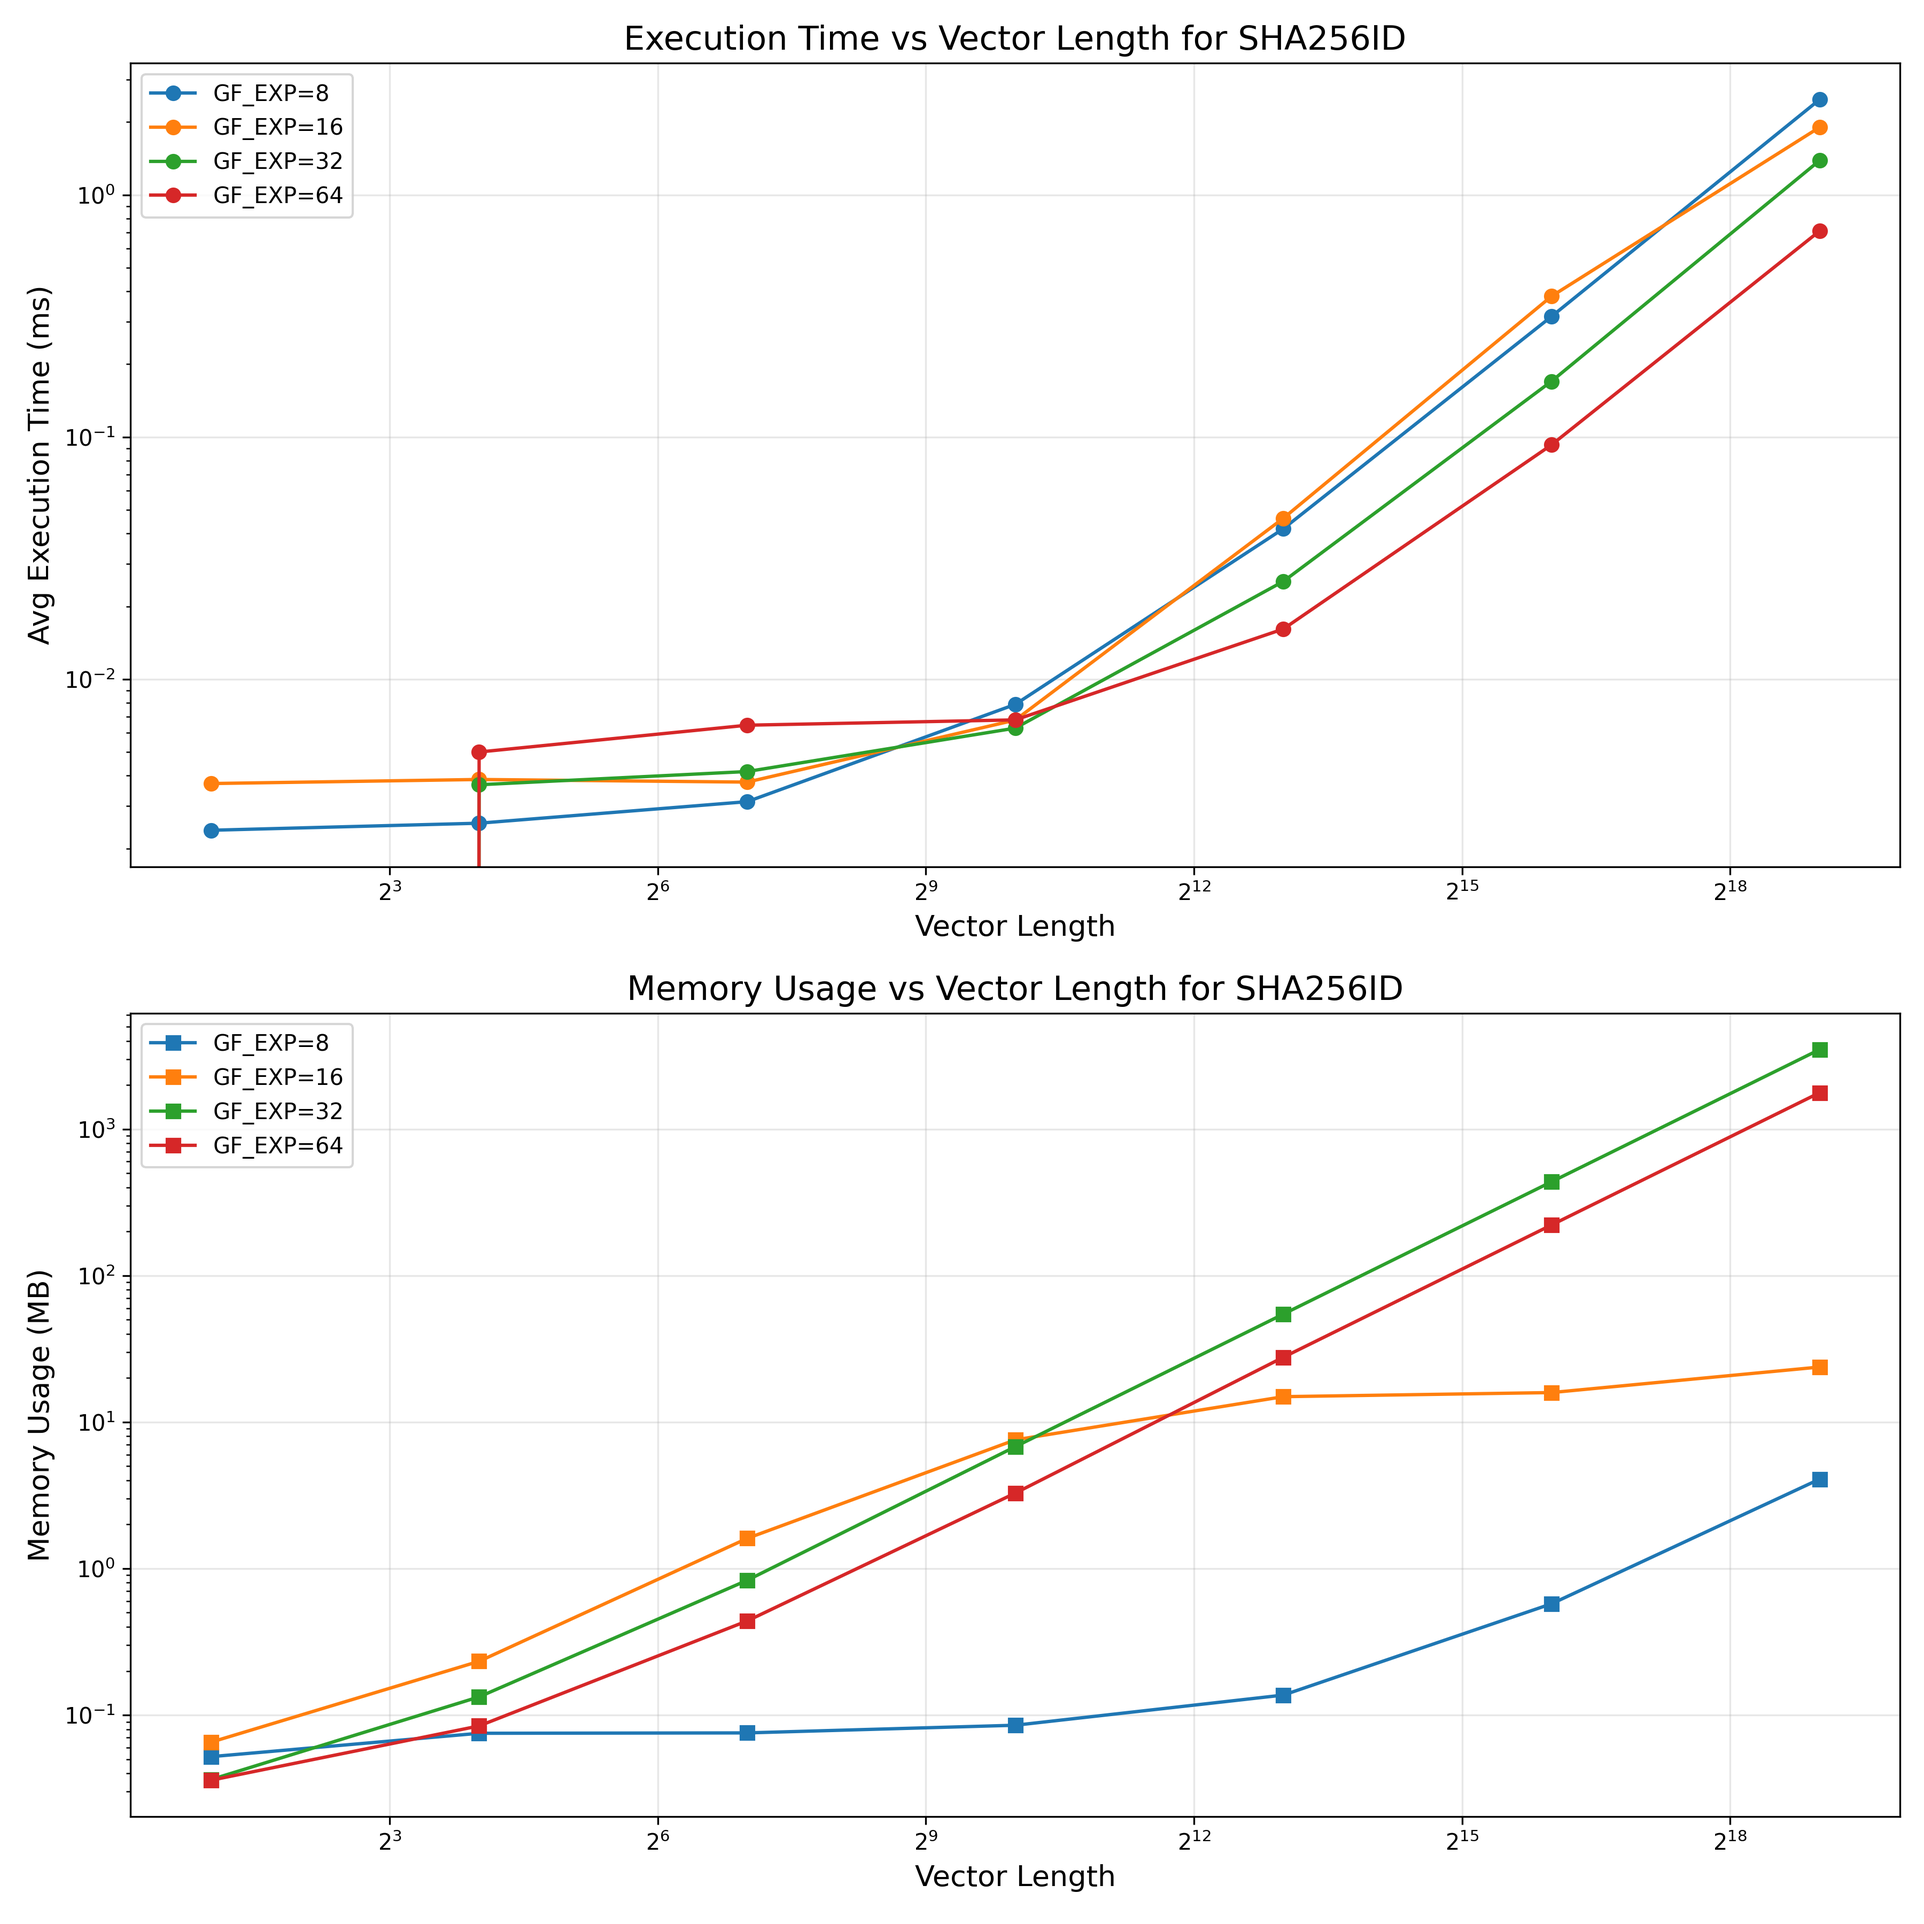
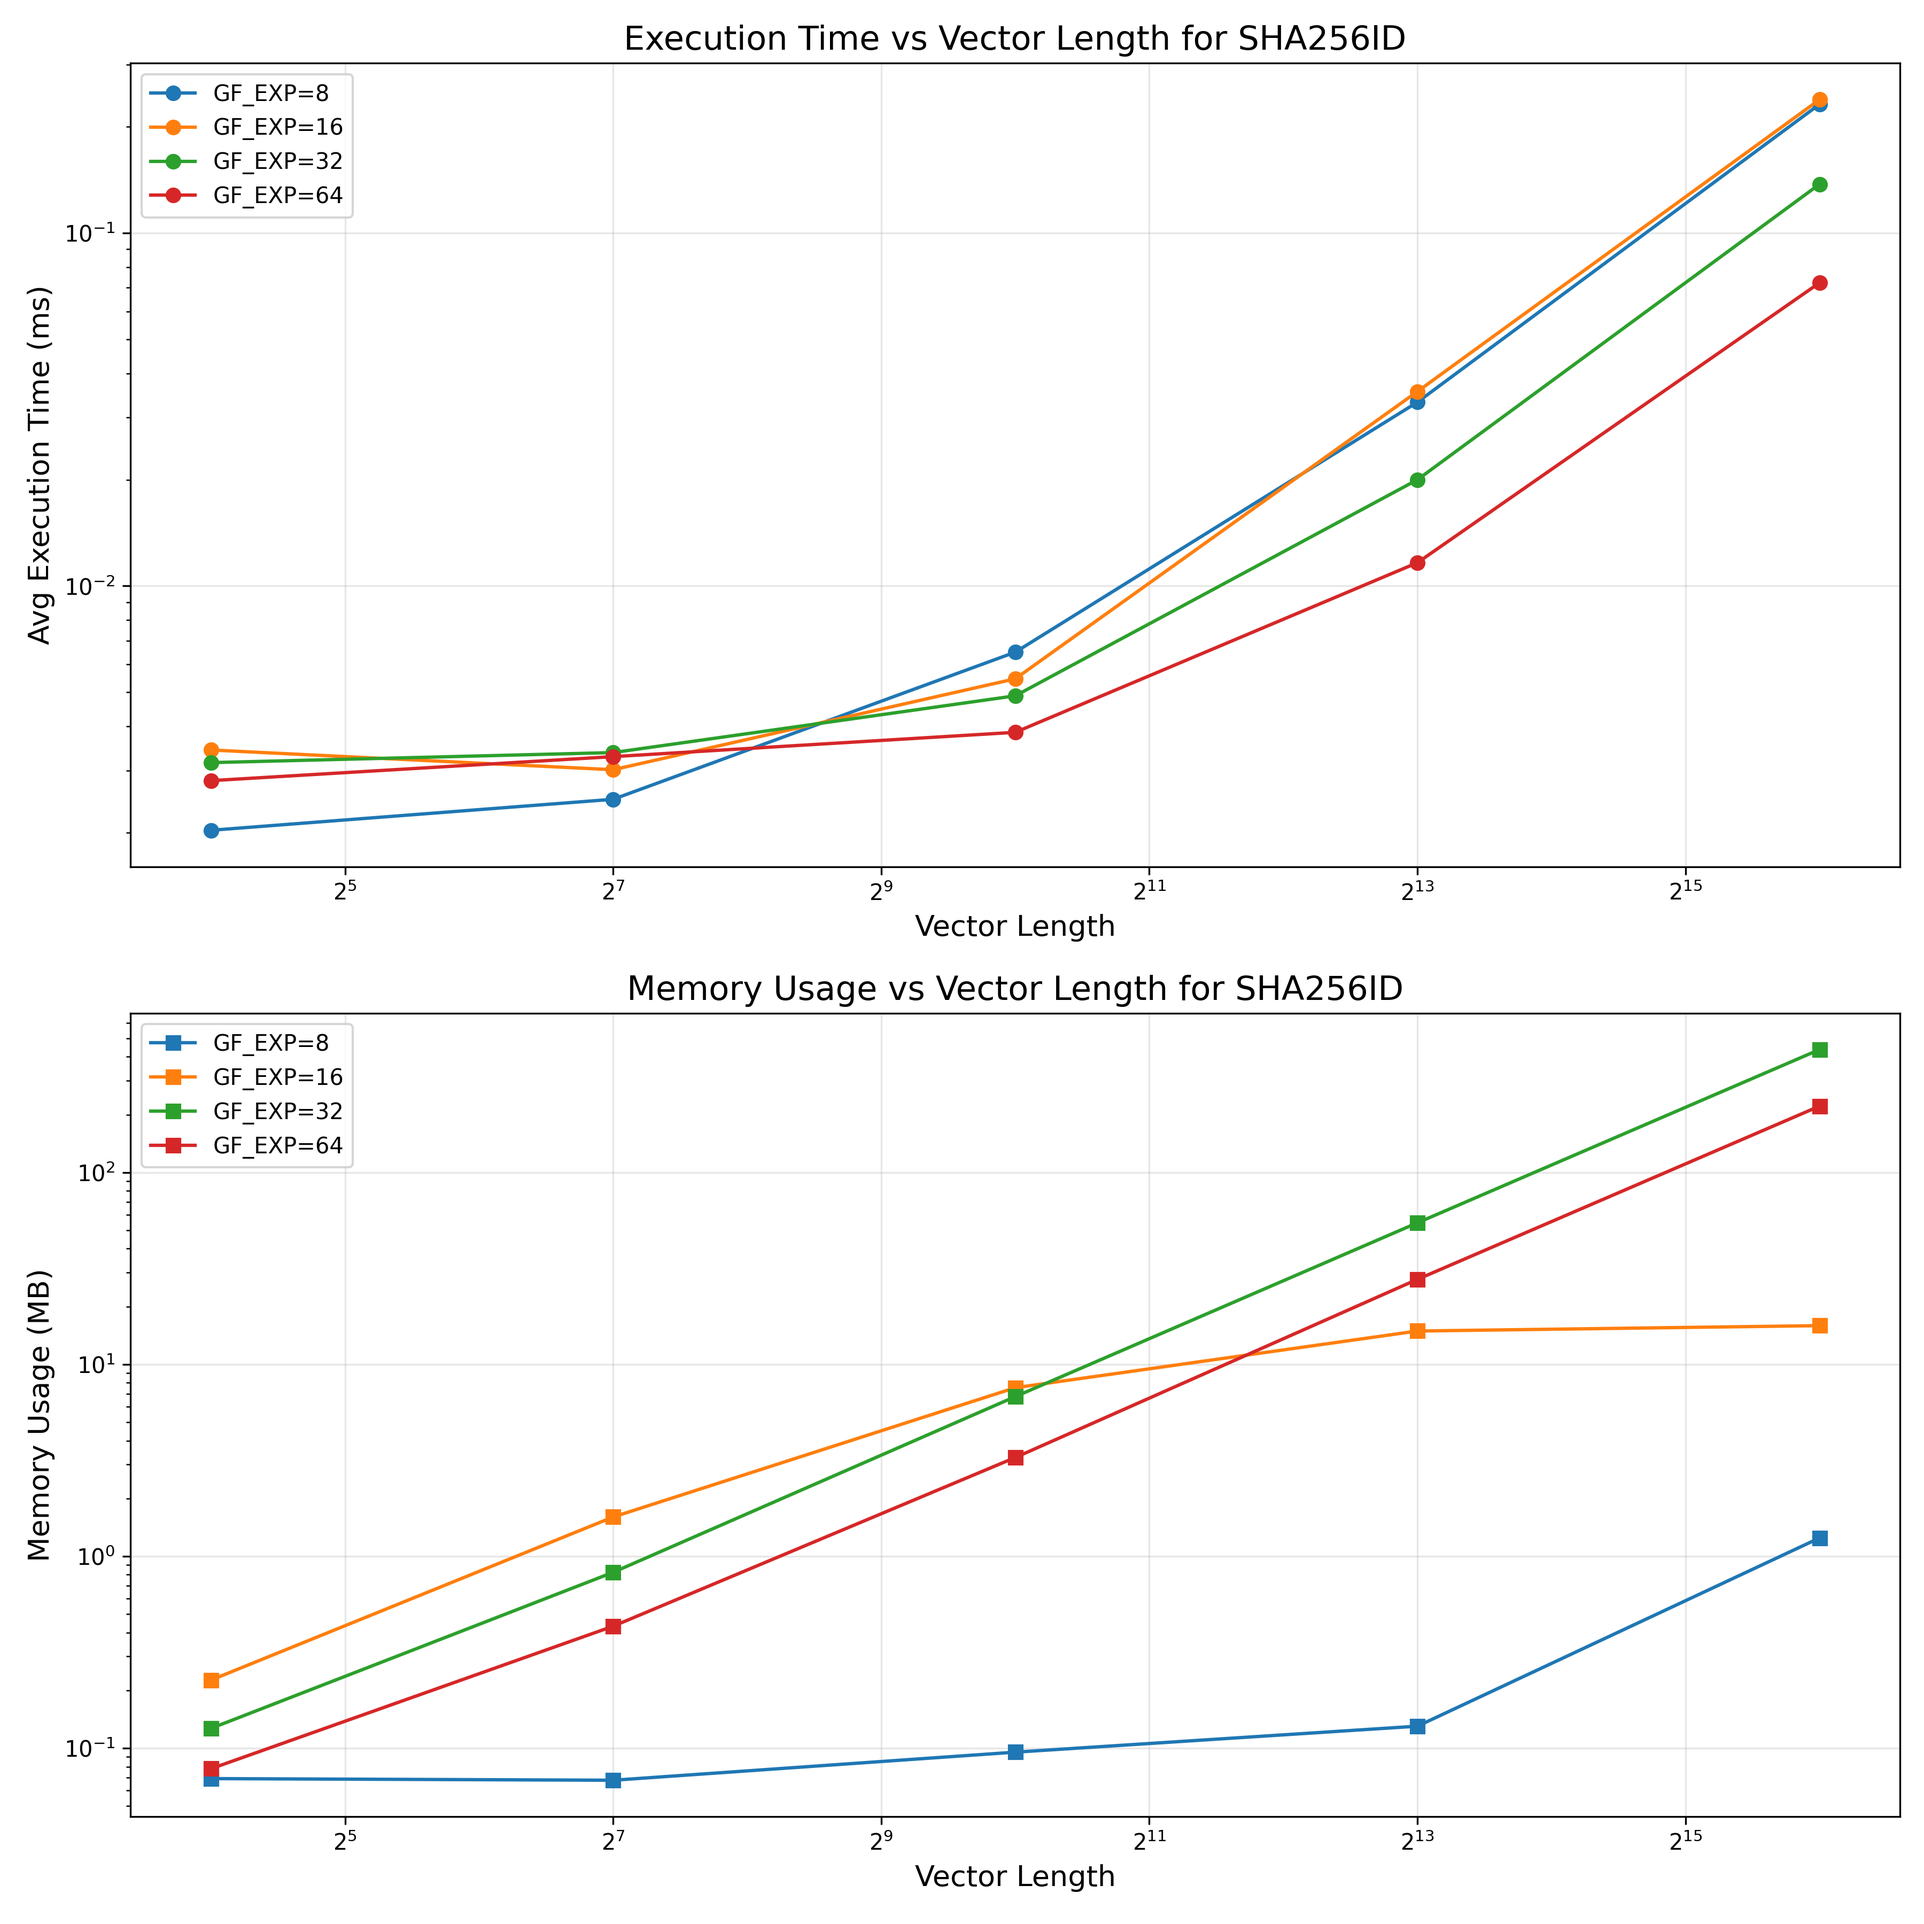
update: new results with fixed library

diff --git a/analyses/framework_performance/multi_parameter.py b/analyses/framework_performance/multi_parameter.py
@@ -7,14 +7,11 @@ import matplotlib.pyplot as plt
 import numpy as np
 import os
 import gc
+import sys
+sys.path.append(os.path.dirname(os.path.dirname(os.path.dirname(os.path.abspath(__file__)))))
 from framework import IdMetrics, create_id_system
 import time
 import tracemalloc
-
-def clear_memory():
-    """Force garbage collection and clear memory."""
-    gc.collect()
-    time.sleep(0.1)
 
 def main():
     print("=" * 60)
@@ -22,12 +19,12 @@ def main():
     print("=" * 60)
 
     # Parameters
-    vec_lengths = [2**i for i in range(1, 21, 3)]
+    vec_lengths = [2**i for i in range(4, 17, 3)]
     gf_exp_values = [8, 16, 32, 64]
     system_types = [
-        ("RSID", lambda gf_exp: lambda vec_len: create_id_system("RSID", {"gf_exp": gf_exp, "tag_pos": [2]})),
-        ("RMID", lambda gf_exp: lambda vec_len: create_id_system("RMID", {"gf_exp": gf_exp, "tag_pos": [2]})),
-        ("RS2ID", lambda gf_exp: lambda vec_len: create_id_system("RS2ID", {"gf_exp": gf_exp, "tag_pos": 2, "tag_pos_in": 2})),
+        ("RSID", lambda gf_exp: lambda vec_len: create_id_system("RSID", {"gf_exp": gf_exp, "tag_pos": [1]})),
+        ("RMID", lambda gf_exp: lambda vec_len: create_id_system("RMID", {"gf_exp": gf_exp, "tag_pos": [1]})),
+        ("RS2ID", lambda gf_exp: lambda vec_len: create_id_system("RS2ID", {"gf_exp": gf_exp, "tag_pos": 1, "tag_pos_in": 1})),
         ("SHA1ID", lambda gf_exp: lambda vec_len: create_id_system("SHA1ID", {"gf_exp": gf_exp})),
         ("SHA256ID", lambda gf_exp: lambda vec_len: create_id_system("SHA256ID", {"gf_exp": gf_exp})),
     ]
@@ -43,6 +40,8 @@ def main():
         for gf_exp in gf_exp_values:
             if system_name == "RS2ID" and gf_exp > 32:
                 continue
+            if system_name == "RMID" and gf_exp > 32:
+                continue
                 
             exec_times = []
             memory_usages = []
@@ -51,7 +50,6 @@ def main():
                 print(f"  gf_exp={gf_exp}, vec_len={vec_len} ...", end="", flush=True)
                 
                 # Clear memory and start tracking
-                clear_memory()
                 tracemalloc.clear_traces()
                 tracemalloc.start()
                 
@@ -104,77 +102,6 @@ def main():
         print(f"Saved plot: analyses/framework_performance/performance_{system_name}.png")
         plt.close()
 
-    # Create summary comparison plot
-    print("\nCreating summary comparison...")
-    create_summary_plots(system_types, vec_lengths, 16, num_messages)
-
-def create_summary_plots(system_types, vec_lengths, comparison_gf_exp, num_messages):
-    """Create summary plots comparing all systems for a specific gf_exp value."""
-    fig, (ax1, ax2) = plt.subplots(2, 1, figsize=(14, 10))
-    
-    for system_name, sys_factory in system_types:
-        if system_name == "RS2ID" and comparison_gf_exp > 32:
-            continue
-            
-        exec_times = []
-        memory_usages = []
-        
-        for vec_len in vec_lengths:
-            print(f"  Summary: {system_name}, vec_len={vec_len} ...", end="", flush=True)
-            
-            # Clear memory and start tracking
-            clear_memory()
-            tracemalloc.clear_traces()
-            tracemalloc.start()
-            
-            # Create system and evaluate
-            system = sys_factory(comparison_gf_exp)(vec_len)
-            metrics = IdMetrics.evaluate_system(
-                system=system,
-                vec_len=vec_len,
-                num_messages=num_messages,
-                num_processes=1,
-            )
-            
-            # Get traced memory
-            _, peak_traced = tracemalloc.get_traced_memory()
-            traced_mb = peak_traced / (1024 * 1024)
-            
-            # Record metrics
-            exec_times.append(metrics["avg_execution_time_ms"])
-            memory_usages.append(traced_mb)
-            
-            print(f" done ({metrics['avg_execution_time_ms']:.3f} ms, {traced_mb:.1f} MB)")
-            
-            # Clean up
-            del system, metrics
-            tracemalloc.stop()
-        
-        # Plot comparison data
-        ax1.plot(vec_lengths, exec_times, marker='o', label=system_name, linewidth=2)
-        ax2.plot(vec_lengths, memory_usages, marker='s', label=system_name, linewidth=2)
-    
-    # Configure plots
-    ax1.set_title(f"Execution Time Comparison (GF_EXP={comparison_gf_exp})", fontsize=15)
-    ax1.set_xlabel("Vector Length", fontsize=13)
-    ax1.set_ylabel("Avg Execution Time (ms)", fontsize=13)
-    ax1.set_xscale("log", base=2)
-    ax1.set_yscale("log")
-    ax1.grid(True, alpha=0.3)
-    ax1.legend()
-    
-    ax2.set_title(f"Memory Usage Comparison (GF_EXP={comparison_gf_exp})", fontsize=15)
-    ax2.set_xlabel("Vector Length", fontsize=13)
-    ax2.set_ylabel("Memory Usage (MB)", fontsize=13)
-    ax2.set_xscale("log", base=2)
-    ax2.set_yscale("log")
-    ax2.grid(True, alpha=0.3)
-    ax2.legend()
-    
-    plt.tight_layout()
-    plt.savefig(f"analyses/framework_performance/system_comparison_gf{comparison_gf_exp}.png", dpi=300)
-    print(f"Saved comparison plot: analyses/framework_performance/system_comparison_gf{comparison_gf_exp}.png")
-    plt.close()
 
 if __name__ == "__main__":
     main()

diff --git a/framework/metrics.py b/framework/metrics.py
@@ -34,7 +34,7 @@ def _worker_generate_and_test(args):
     }
     
     # Sample collided messages (limit to reasonable number)
-    max_collided_samples = min(100, batch_size // 100)
+    max_collided_samples = 100
     collided_msgs_sample = []
     
     # Create a generator for this worker's messages
@@ -522,7 +522,6 @@ class IdMetrics:
         systems: Dict[str, IdSystem], 
         num_messages: int = 1000, 
         vec_len: int = 16,
-        message_subset_size: int = 10,
         num_processes: int = None,
         message_pattern: str = 'random'
     ) -> Dict[str, Dict[str, float]]:
@@ -533,7 +532,6 @@ class IdMetrics:
             systems: Dictionary mapping system names to IdSystem instances
             num_messages: Number of messages to test
             vec_len: Vector length in bytes
-            message_subset_size: Size of message subset for compute intensive metrics
             num_processes: Number of processes to use for parallelization
             
         Returns:
@@ -544,7 +542,7 @@ class IdMetrics:
         for name, system in systems.items():
             print(f"Evaluating {name}...")
             results[name] = IdMetrics.evaluate_system(
-                system, num_messages, vec_len, message_subset_size=message_subset_size,
+                system, num_messages, vec_len,
                 num_processes=num_processes, message_pattern=message_pattern
             )
         

diff --git a/analyses/gf_exp_influence/gf_exp.py b/analyses/gf_exp_influence/gf_exp.py
@@ -20,9 +20,9 @@ def main():
     print("=" * 50)
 
     # Range of gf_exp values to test
-    gf_exp_values = [8, 32]
-    num_messages = 2**30  # Number of messages to generate for each gf_exp
-    vec_len = 4  # Fixed vector length for this test 1000bit
+    gf_exp_values = [8, 16, 32]
+    num_messages = 10**8  # Number of messages to generate for each gf_exp
+    vec_len = 8  # Fixed vector length for this test 1000bit
 
     # Create systems as a dictionary for compare_systems
     system_types = [
@@ -42,7 +42,6 @@ def main():
             systems=systems,
             num_messages=num_messages,
             vec_len=vec_len,
-            message_subset_size=0
         )
 
         # Store results for each system
@@ -72,9 +71,7 @@ def main():
 
     print(f"System results saved to {output_file}")
 
-    return
-
-    
+    return    
 
 if __name__ == "__main__":
     main()

diff --git a/analyses/multi_tag_multi_message/multi_tag_multi_message.py b/analyses/multi_tag_multi_message/multi_tag_multi_message.py
@@ -1,10 +1,12 @@
 import matplotlib.pyplot as plt
 import numpy as np
 import os
-from framework import IdMetrics, create_id_system
+
 import sys
 
 sys.path.append(os.path.dirname(os.path.dirname(os.path.dirname(os.path.abspath(__file__)))))
+
+from framework import IdMetrics, create_id_system
 
 def theoretical_fp_rate(k, t, p):
     """
